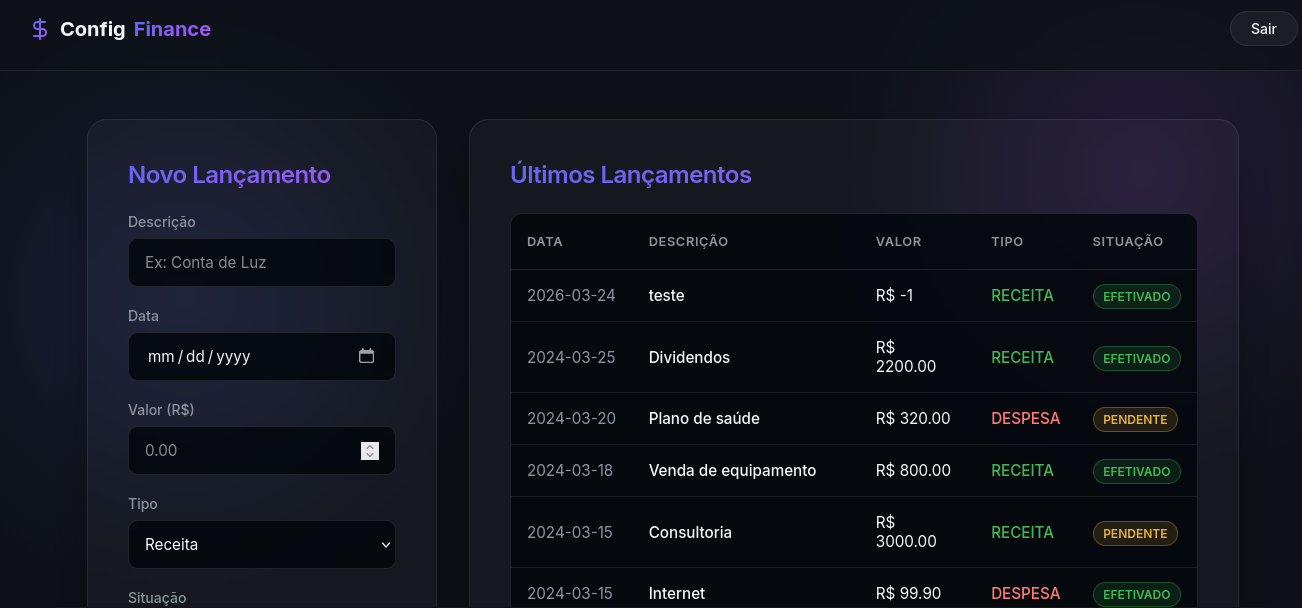
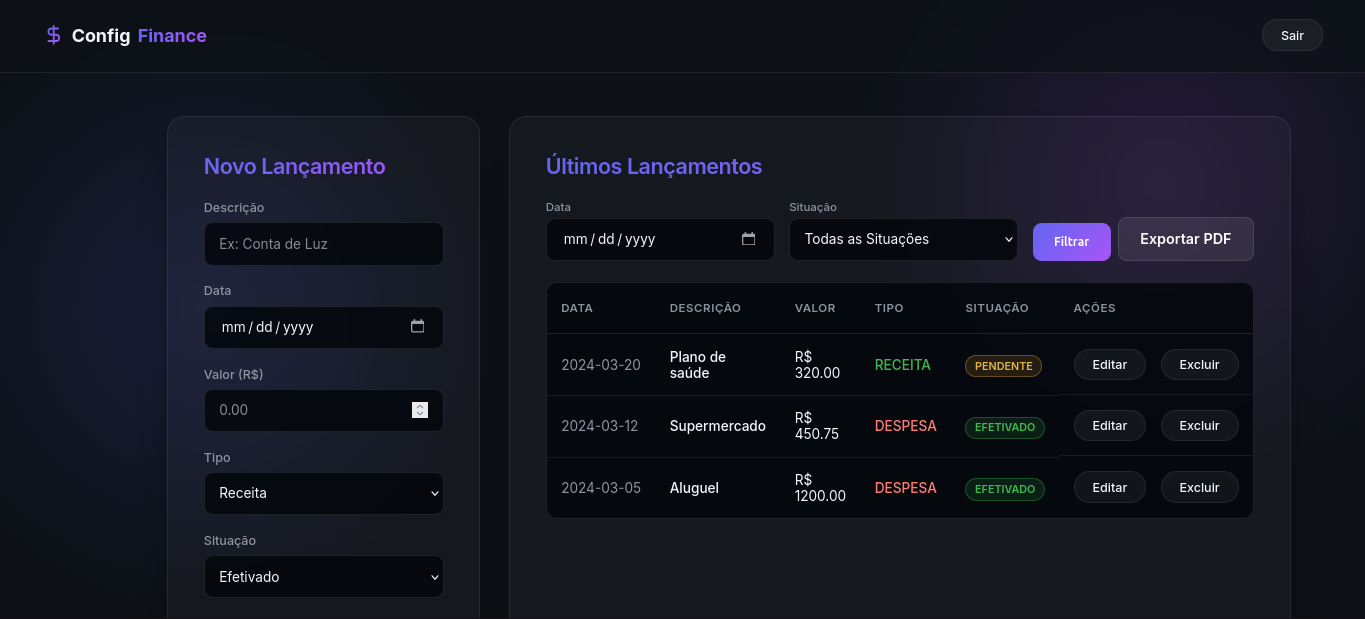
test: create tests for the application

diff --git a/tests/test_routes.py b/tests/test_routes.py
@@ -1,0 +1,112 @@
+import pytest
+from flask import session
+
+def test_login_page_renders_200(client):
+    response = client.get('/login')
+    assert response.status_code == 200
+    assert b'ConfigFinance | Entrar' in response.data
+
+def test_login_post_success(client, mocker):
+    mocker.patch('app.autenticar_usuario', return_value={'id': 1, 'nome': 'Admin'})
+    response = client.post('/login', data={'username': 'admin', 'password': '123'})
+    assert response.status_code == 302
+    with client.session_transaction() as sess:
+        assert sess['user_id'] == 1
+
+def test_login_post_failure(client, mocker):
+    mocker.patch('app.autenticar_usuario', return_value=None)
+    response = client.post('/login', data={'username': 'admin', 'password': 'wrong'})
+    assert response.status_code == 200
+    assert b'Login ou senha' in response.data
+
+def test_logout_clears_session(client):
+    with client.session_transaction() as sess:
+        sess['user_id'] = 1
+        sess['user_name'] = 'Admin'
+    response = client.get('/logout')
+    assert response.status_code == 302
+    with client.session_transaction() as sess:
+        assert 'user_id' not in sess
+
+def test_firewall_blocks_unauthenticated(client):
+    response = client.get('/lancamento')
+    assert response.status_code == 302
+    assert '/login' in response.headers.get('Location', '') or b'/login' in response.data
+
+def test_firewall_allows_static(client):
+    response = client.get('/static/style.css')
+    assert response.status_code != 302
+
+def test_lancamento_page_renders(client, mocker):
+    with client.session_transaction() as sess:
+        sess['user_id'] = 1
+    mocker.patch('app.listar_lancamentos', return_value=[])
+    mocker.patch('app.listar_usuarios', return_value=[])
+    response = client.get('/lancamento')
+    assert response.status_code == 200
+
+def test_lancamento_page_filters(client, mocker):
+    with client.session_transaction() as sess:
+        sess['user_id'] = 1
+    mock_list = mocker.patch('app.listar_lancamentos', return_value=[])
+    mocker.patch('app.listar_usuarios', return_value=[])
+    response = client.get('/lancamento?data=2024-01-01&situacao=PENDENTE')
+    assert response.status_code == 200
+    mock_list.assert_called_once_with(id_usuario=1, data_filtro='2024-01-01', situacao_filtro='PENDENTE')
+
+def test_lancamento_post_creates_and_redirects(client, mocker):
+    with client.session_transaction() as sess:
+        sess['user_id'] = 1
+    mock_inserir = mocker.patch('app.inserir_lancamento')
+    response = client.post('/lancamento', data={
+        'descricao': 'Test',
+        'data_lancamento': '2024-01-01',
+        'valor': '10.50',
+        'tipo_lancamento': 'DESPESA',
+        'situacao': 'EFETIVADO',
+        'id_usuario': 1
+    })
+    assert response.status_code == 302
+    mock_inserir.assert_called_once()
+
+def test_exportar_pdf_renders(client, mocker):
+    with client.session_transaction() as sess:
+        sess['user_id'] = 1
+    mocker.patch('app.listar_lancamentos', return_value=[])
+    mocker.patch('app.HTML.write_pdf')
+    response = client.get('/exportar_pdf')
+    assert response.status_code == 200
+    assert response.headers['Content-Type'] == 'application/pdf'
+
+def test_editar_lancamento_route_modal(client, mocker):
+    with client.session_transaction() as sess:
+        sess['user_id'] = 1
+    mocker.patch('app.buscar_lancamento_por_id', return_value={'id': 1, 'descricao': 'EDIT_ME'})
+    mocker.patch('app.listar_lancamentos', return_value=[])
+    mocker.patch('app.listar_usuarios', return_value=[])
+    response = client.get('/editar_lancamento/1')
+    assert response.status_code == 200
+    assert b'EDIT_ME' in response.data
+
+def test_editar_lancamento_post_saves(client, mocker):
+    with client.session_transaction() as sess:
+        sess['user_id'] = 1
+    mock_atualizar = mocker.patch('app.atualizar_lancamento')
+    response = client.post('/editar_lancamento/1', data={
+        'descricao': 'Updated',
+        'data_lancamento': '2024-01-01',
+        'valor': '20.00',
+        'tipo_lancamento': 'RECEITA',
+        'situacao': 'PENDENTE',
+        'id_usuario': 1
+    })
+    assert response.status_code == 302
+    mock_atualizar.assert_called_once()
+
+def test_deletar_lancamento_redirects(client, mocker):
+    with client.session_transaction() as sess:
+        sess['user_id'] = 1
+    mock_del = mocker.patch('app.deletar_lancamento_db')
+    response = client.get('/deletar_lancamento/1')
+    assert response.status_code == 302
+    mock_del.assert_called_once_with(1)

diff --git a/tests/test_services.py b/tests/test_services.py
@@ -1,0 +1,86 @@
+import pytest
+from services.usuario_service import autenticar_usuario, listar_usuarios
+from services.lancamentos_service import (
+    listar_lancamentos, inserir_lancamento, buscar_lancamento_por_id,
+    atualizar_lancamento, deletar_lancamento_db
+)
+
+def test_autenticar_usuario_valid(mock_db_connection, mocker):
+    mock_cursor = mocker.MagicMock()
+    mock_cursor.fetchone.return_value = {'id': 1, 'nome': 'admin', 'senha': '202cb962ac59075b964b07152d234b70'}
+    mock_db_connection.cursor.return_value.__enter__.return_value = mock_cursor
+    
+    result = autenticar_usuario('admin', '123')
+    
+    assert result['id'] == 1
+    mock_cursor.execute.assert_called_once()
+    assert 'admin' in mock_cursor.execute.call_args[0][1]
+
+def test_autenticar_usuario_invalid(mock_db_connection, mocker):
+    mock_cursor = mocker.MagicMock()
+    mock_cursor.fetchone.return_value = None
+    mock_db_connection.cursor.return_value.__enter__.return_value = mock_cursor
+    
+    result = autenticar_usuario('admin', 'wrong')
+    assert result is None
+
+def test_listar_usuarios(mock_db_connection, mocker):
+    mock_cursor = mocker.MagicMock()
+    mock_cursor.fetchall.return_value = [{'id': 1, 'nome': 'A'}]
+    mock_db_connection.cursor.return_value.__enter__.return_value = mock_cursor
+    
+    result = listar_usuarios()
+    assert len(result) == 1
+
+def test_listar_lancamentos_filters(mock_db_connection, mocker):
+    mock_cursor = mocker.MagicMock()
+    mock_cursor.fetchall.return_value = []
+    mock_db_connection.cursor.return_value.__enter__.return_value = mock_cursor
+    
+    listar_lancamentos(id_usuario=1, data_filtro='2024-01-01', situacao_filtro='EFETIVADO')
+    
+    query = mock_cursor.execute.call_args[0][0]
+    args = mock_cursor.execute.call_args[0][1]
+    
+    assert 'id_usuario = %s' in query
+    assert 'data_lancamento = %s' in query
+    assert 'situacao = %s' in query
+    assert args == (1, '2024-01-01', 'EFETIVADO')
+
+def test_inserir_lancamento(mock_db_connection, mocker):
+    mock_cursor = mocker.MagicMock()
+    mock_db_connection.cursor.return_value.__enter__.return_value = mock_cursor
+    
+    result = inserir_lancamento('Desc', '2024-01-01', 10, 'DES', 'PEND', 1)
+    
+    assert result is True
+    assert mock_db_connection.commit.called
+
+def test_buscar_lancamento_por_id(mock_db_connection, mocker):
+    mock_cursor = mocker.MagicMock()
+    mock_cursor.fetchone.return_value = {'id': 5}
+    mock_db_connection.cursor.return_value.__enter__.return_value = mock_cursor
+    
+    result = buscar_lancamento_por_id(5)
+    assert result['id'] == 5
+    args = mock_cursor.execute.call_args[0][1]
+    assert args == (5,)
+
+def test_atualizar_lancamento(mock_db_connection, mocker):
+    mock_cursor = mocker.MagicMock()
+    mock_db_connection.cursor.return_value.__enter__.return_value = mock_cursor
+    
+    result = atualizar_lancamento(1, 'D', '2024', 5, 'R', 'P', 1)
+    
+    assert result is True
+    assert mock_db_connection.commit.called
+
+def test_deletar_lancamento_db(mock_db_connection, mocker):
+    mock_cursor = mocker.MagicMock()
+    mock_db_connection.cursor.return_value.__enter__.return_value = mock_cursor
+    
+    result = deletar_lancamento_db(1)
+    assert result is True
+    assert mock_db_connection.commit.called
+    args = mock_cursor.execute.call_args[0][1]
+    assert args == (1,)

diff --git a/tests/test_database.py b/tests/test_database.py
@@ -1,0 +1,21 @@
+import pytest
+from config.database import get_db_connection
+
+def test_real_db_connection_success():
+    """
+    Tests if the application can successfully establish a live connection to the PostgreSQL database.
+    This test runs completely independently of the `mock_db_connection` fixture.
+    """
+    conn = None
+    try:
+        conn = get_db_connection()
+        # Executes an extremely simple ping operation against the database
+        with conn.cursor() as cursor:
+            cursor.execute("SELECT 1")
+            result = cursor.fetchone()
+            assert result[0] == 1
+    except Exception as e:
+        pytest.fail(f"Erro na conexão com o banco de dados: {e}")
+    finally:
+        if conn is not None:
+            conn.close()

diff --git a/tests/conftest.py b/tests/conftest.py
@@ -1,0 +1,27 @@
+import pytest
+import sys
+import os
+
+from app import app as flask_app
+from unittest.mock import MagicMock
+
+@pytest.fixture
+def app():
+    flask_app.config.update({
+        "TESTING": True,
+        "SECRET_KEY": "test_secret_key"
+    })
+    yield flask_app
+
+@pytest.fixture
+def client(app):
+    return app.test_client()
+
+@pytest.fixture
+def mock_db_connection(mocker):
+    mock_conn = MagicMock()
+    # Mock all the relevant places where the DB is sourced
+    mocker.patch("config.database.get_db_connection", return_value=mock_conn)
+    mocker.patch("services.lancamentos_service.get_db_connection", return_value=mock_conn)
+    mocker.patch("services.usuario_service.get_db_connection", return_value=mock_conn)
+    return mock_conn

diff --git a/README.md b/README.md
@@ -1,13 +1,14 @@
 # ConfigFinance
 
-A configuration management system built with Python, Flask, and PostgreSQL. It features a fully responsive Glassmorphism UI, containerized database integration, and an automated environment provisioner.
+A configuration management system built with Python, Flask, and PostgreSQL. It features a fully responsive Glassmorphism UI, a comprehensive PyTest automation suite, dynamic data filtering, PDF generation, and an automated environment provisioner.
 
 ## 🏛 Architecture
 
 The application is built on a standard **Client-Server Architecture**:
 - **Backend**: A python-based Flask application that handles HTTP routing, session management, and server-side request processing.
-- **Database Layer**: A raw SQL execution layer utilizing `psycopg2`. Connection instances are managed in `config/database.py` and strictly separated into service modules (`services/lancamentos_service.py` and `services/usuario_service.py`) conforming to the Service Pattern design.
-- **Frontend**: Server-rendered Jinja2 HTML templates paired with a Vanilla CSS design system enforcing a premium Dark Mode aesthetic.
+- **Database Layer**: A raw SQL execution layer utilizing `psycopg2`. Connection instances are managed securely and strictly separated into service modules (`services/lancamentos_service.py` and `services/usuario_service.py`) conforming to the Service Pattern design.
+- **Frontend**: Server-rendered Jinja2 HTML templates paired with a Vanilla CSS design system enforcing a premium Dark Mode aesthetic with dynamic interactive modals.
+- **Testing Layer**: A unit testing suite powered by `pytest` and `pytest-mock`, testing application integration by securely intercepting the `psycopg2` pipeline without touching live environments.
 
 ## 🛠 Tech Stack
 
@@ -15,6 +16,8 @@ The application is built on a standard **Client-Server Architecture**:
 - **Flask** (Web Framework & Session Management)
 - **PostgreSQL** (Relational Database)
 - **psycopg2-binary** (Postgres Adapter)
+- **WeasyPrint** (HTML to PDF Exporter)
+- **pytest & pytest-mock** (Testing Utilities)
 - **python-dotenv** (Environment Configuration)
 - **Vanilla CSS3 & HTML5** (Glassmorphism UI, Flexbox, CSS Grid)
 
@@ -25,8 +28,12 @@ The application is built on a standard **Client-Server Architecture**:
 | `GET` | `/` | Redirects authenticated users to the dashboard. Redirects guests to login. |
 | `GET` | `/login` | Renders the authentication interface. |
 | `POST` | `/login` | Validates credentials against MD5 database hashes. |
-| `GET` | `/lancamento` | Dashboard displaying the finance table and the new entry form. |
+| `GET` | `/lancamento` | Dashboard displaying the finance table, optional query parameters (`?data=` & `?situacao=`), and the new entry form. |
 | `POST` | `/lancamento` | Processes and persists a new finance entry to the PostgreSQL database. |
+| `GET` | `/exportar_pdf` | Converts current Dashboard variables into a downloadable `.pdf` report utilizing WeasyPrint. |
+| `GET` | `/editar_lancamento/<id>` | Forces the server to render a centralized edit modal injected dynamically over the Dashboard interface. |
+| `POST` | `/editar_lancamento/<id>` | Updates the values of the specific postgres row. |
+| `GET` | `/deletar_lancamento/<id>` | Provides immediate database purging capabilities routing users back efficiently. |
 | `GET` | `/logout` | Clears the Flask session and routes the user back to `/login`. |
 
 ## 🚀 Getting Started
@@ -34,6 +41,7 @@ The application is built on a standard **Client-Server Architecture**:
 ### Prerequisites
 - Operating System: Linux (Debian/Ubuntu recommended) or macOS
 - Standard bash terminal
+- Important libraries for WeasyPrint functionality: `libcairo2`, `libpango-1.0-0`, `libpangocairo-1.0-0` installed organically on Linux environments.
 
 ### Installation
 
@@ -63,11 +71,16 @@ The application is built on a standard **Client-Server Architecture**:
    venv/bin/python app.py
    ```
 
+### 🧪 Running the Pytest Suite
+The repository includes exactly 21 testing configurations testing both web responses and postgres methods automatically.
+1. Activate your local virtual environment: `source venv/bin/activate`
+2. Run Pytest specifying the target directory: `python -m pytest tests/ -v`
+
 ### Accessing the App
 Open your web browser and navigate to:
 [http://0.0.0.0:5000](http://0.0.0.0:5000) or [http://localhost:5000](http://localhost:5000)
 
-### SreenShots
+### Screenshots
 
 Login Page:
 ![alt text](login.png)
@@ -75,4 +88,4 @@ Login Page:
 Dashboard Page:
 ![alt text](dashboard.png)
 
-**Note**: This doens't represent the final version of the projetc, it was made for academic purposes and it will be updated soon.
+**Note**: This doesn't represent the final version of the project, it was made for academic purposes and it will be updated soon.
